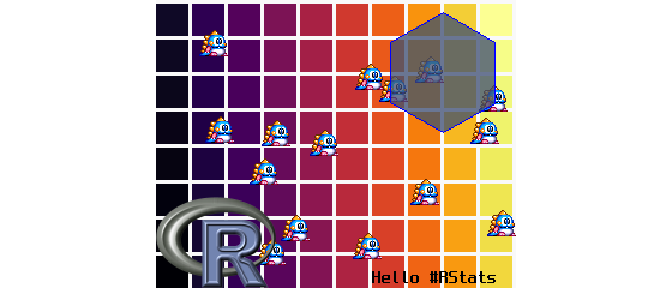
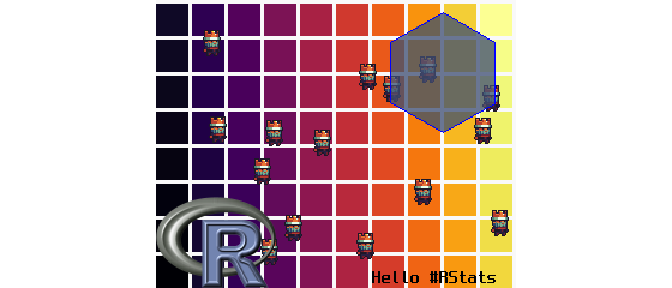
remove copyrighted dino sprite

diff --git a/README.md b/README.md
@@ -112,9 +112,9 @@ coords  <- expand.grid(y = seq(0, h-1) * 30 + 1, x = seq(0, w-1) * 30 + 1)
 nr_rect(nr, x = coords$x, y = coords$y, w = 27, h = 27, fill = colours)
 
 #~~~~~~~~~~~~~~~~~~~~~~~~~~~~~~~~~~~~~~~~~~~~~~~~~~~~~~~~~~~~~~~~~~~~~~~~~~~~~
-# Draw a bunch of dinos
+# Draw a bunch of kings
 #~~~~~~~~~~~~~~~~~~~~~~~~~~~~~~~~~~~~~~~~~~~~~~~~~~~~~~~~~~~~~~~~~~~~~~~~~~~~~
-nr_blit(nr, x = sample(300, 15), y = sample(200, 15), dino[[1]])
+nr_blit2(nr, x = sample(300, 15), y = sample(200, 15), king, king_locs[[1]])
 
 
 #~~~~~~~~~~~~~~~~~~~~~~~~~~~~~~~~~~~~~~~~~~~~~~~~~~~~~~~~~~~~~~~~~~~~~~~~~~~~~
@@ -146,22 +146,25 @@ grid.raster(nr, interpolate = FALSE)
 
 ## Static Rendering: Displaying Sprites
 
-Included with `{nara}` are 16 frames of cartoon dinosaur animation from
-the BubbleBobble video game - see `dino` data.
+Included with `{nara}` are 16 frames of an animated king character - see
+`king` data.
 
-#### Blit the first dino frame onto a native raster canvas.
+These frames are consolidated into a single image called a *spritesheet*
+and `king_locs` contains the coordiates of 16 sprites within that image.
+
+#### Blit the first `king` frame onto a native raster canvas.
 
 ``` r
 library(grid)
 
 nr <- nr_new(100, 30, 'grey80')
-nr_blit(nr, 2, 1, dino[[1]])
+nr_blit2(nr, 2, 1, king, king_locs[[1]])
 grid.raster(nr, interpolate = FALSE)
 ```
 
 <img src="man/figures/README-unnamed-chunk-3-1.png" width="100%" />
 
-#### Dynamic (realtime) Rendering: Walking Dino
+#### Dynamic (realtime) Rendering: Animated King
 
 The reason to use `{nara}` is that operations are fast enough that
 `nativeRaster` can be used as an *in-memory* buffer for a
@@ -171,11 +174,11 @@ double-bufferred rendering system.
 with one buffer being shown to the user, and the other existing in
 memory as a place to render.
 
-In this example, the `dino` sprite is renderd to a `nativeRaster` image.
-This *in-memory* buffer is then displayed to the user using
+In this example, the `king` sprite is rendered to a `nativeRaster`
+image. This *in-memory* buffer is then displayed to the user using
 `grid.raster()`.
 
-By altering the position and animation frame every time the dino is
+By altering the position and animation frame every time the kind is
 shown, smooth animation is possible.
 
 This simple code runs at well over 100 frames-per-second.
@@ -197,20 +200,20 @@ nr <- nr_new(100, 30, 'grey80')
 # Clear, blit and render => animation!
 for (i in -30:110) {
   nr_fill(nr, 'grey80')                    # Clear the nativeRaster
-  nr_blit(nr, i, 1, dino[[(i %% 16) + 1]]) # copy dino to nativeRaster
+  nr_blit2(nr, i, 1, king, king_locs[[((i/2) %% 8) + 1]]) # copy king to nativeRaster
   grid.raster(nr, interpolate = FALSE)     # copy nativeRaster to screen
-  Sys.sleep(0.02)                          # Stop animation running too fast.
+  Sys.sleep(0.03)                          # Stop animation running too fast.
 }
 ```
 
 #### Live screen recording
 
-<img src="man/figures/dino.gif" />
+<img src="man/figures/king.gif" />
 
-## Dino Multi-Ball
+## Multi-Ball
 
 You can quickly *blit* (i.e. copy) a sprite into multiple locations on
-the nativeraster with `nr_blit()`.
+the nativeraster with `nr_blit()` and `nr_blit2()`
 
 In this example 100 random positions and velocities are first created. A
 character sprite is then blitted to each of these 100 locations.
@@ -244,17 +247,17 @@ nr <- nr_new(w, h, 'grey80')
 
 
 for (frame in 1:1000) {
-  # Clear the nativeraster and blit in all the dinosaurs
+  # Clear the nativeraster and blit in all the kings
   nr_fill(nr, 'grey80') 
-  nr_blit(nr, x, y, dino[[(frame) %% 16 + 1]])
+  nr_blit2(nr, x, y, king, king_locs[[(frame) %% 16 + 1]])
   
   # Draw the nativeraster to screen
   dev.hold()
   grid.raster(nr, interpolate = FALSE)
   dev.flush()
 
-  # Update the position and velocity of each dino
-  # Dinos move at constant velocity and bounce off the sides of the image
+  # Update the position and velocity of each king
+  # Kings move at constant velocity and bounce off the sides of the image
   x  <- x + vx
   y  <- y + vy
   vx <- ifelse(x > (w - 25)| x < 1, -vx, vx)
